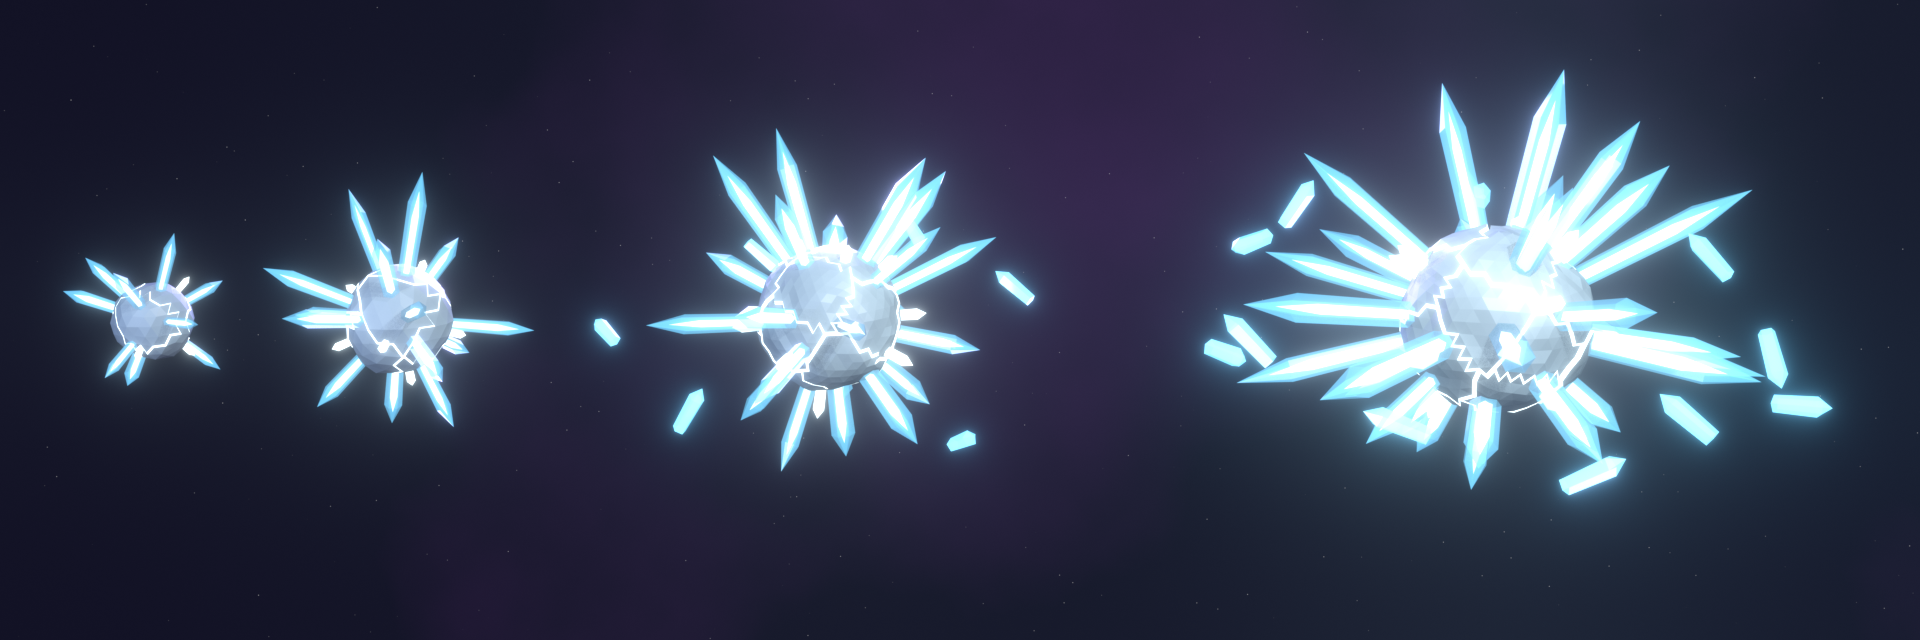
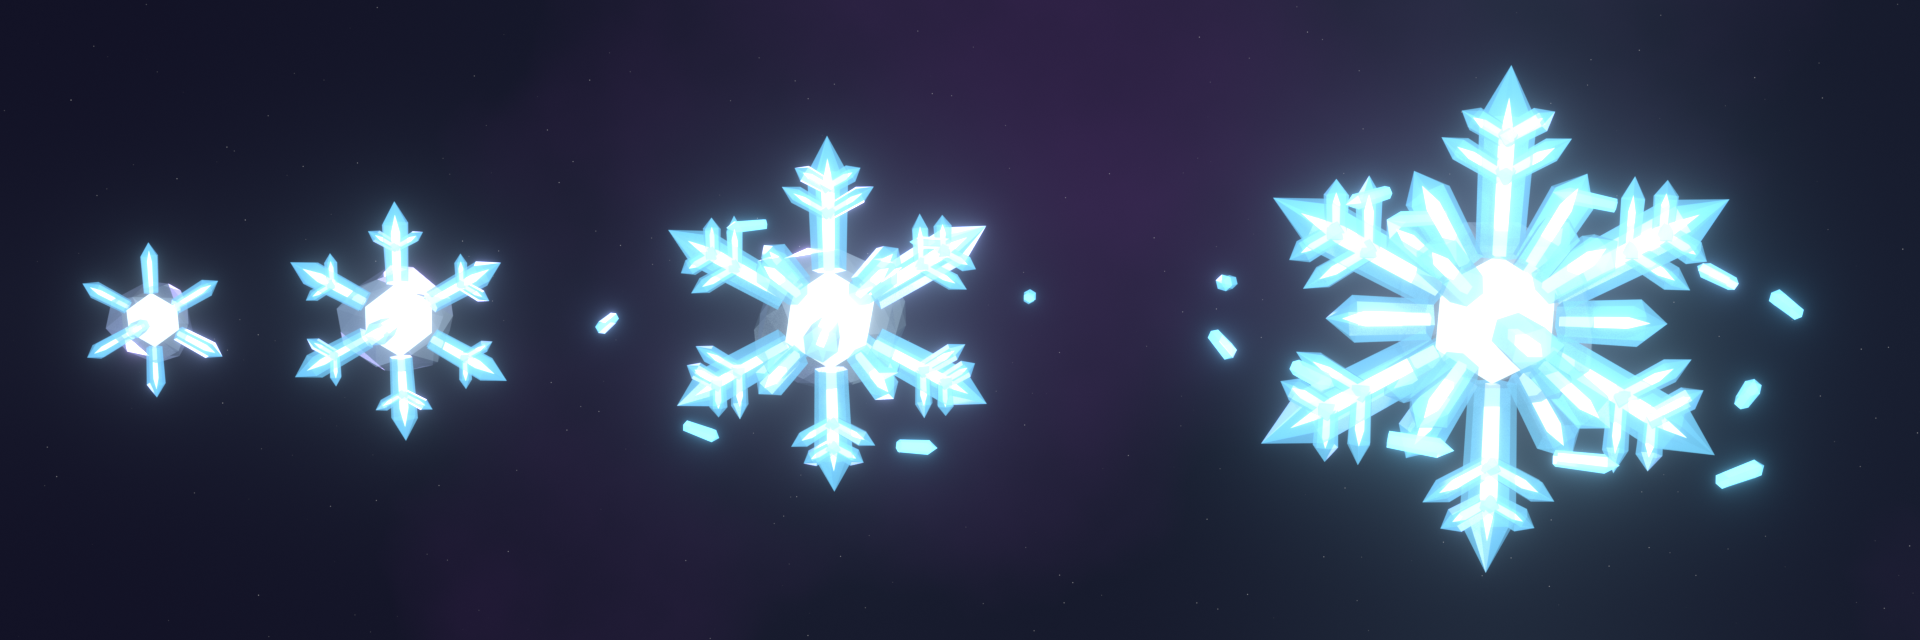
T04: Frost od nowa — płatek śniegu z kryształów wokół zamrożonej gwiazdy

Changed region(s): [[0.625, 0.0938, 0.9688, 0.9062], [0.3125, 0.2188, 0.5625, 0.75], [0.0312, 0.2812, 0.2812, 0.6875]]

diff --git a/art/stars/build_star.py b/art/stars/build_star.py
@@ -353,28 +353,69 @@ def build_lava(coll, cfg, rng, seed):
     return parts
 
 
-def build_frost(coll, cfg, rng, seed):
-    """Frost Star: „jeżowiec” z długich lodowych kolców. Kolce półprzezroczyste (Glass), w każdym świecący
-    kryształ-rdzeń; lodowa skorupa popękana, przez pęknięcia bije zimne światło."""
-    d = cfg["d"]
-    bm = ico(0.74, cfg["sub"])
-    for v in bm.verts:
+def spiky_star(bm, radius, spike, sub=1):
+    """Świecąca gwiazda 3D: ikosfera, której 12 pierwotnych wierzchołków wyciągnięto w kolce."""
+    tmp = ico(radius, sub)
+    for v in tmp.verts:
         n = v.co.normalized()
-        v.co = n * 0.74 * rocky(n, seed, 0.5)
-    voronoi_plates(bm, [6, 9, 13, 18][d], 0.95, (0.99, 1.04), rng)
-    shell = mesh_obj("Shell", bm, coll)
-    solidify(shell, 0.08, rim_mat=True)
+        # 12 wierzchołków ikosaedru ma 5 sąsiadów, reszta 6 — to one stają się czubkami.
+        v.co = n * (spike if len(v.link_edges) == 5 else radius)
+    bm_add(bm, tmp)
 
-    core = ico(0.66, 3)
-    bm_add(core, split_rim(shell))
+
+def gem(rng, n_pts, radius, jitter, stretch=1.0):
+    """Fasetowana bryła (otoczka wypukła losowych punktów na sferze) — duże płaskie ścianki jak klejnot."""
+    bm = bmesh.new()
+    for d in fib_dirs(n_pts, rng, jitter):
+        r = radius * rng.uniform(0.9, 1.05)
+        bm.verts.new(Vector((d.x * r, d.y * r, d.z * r * stretch)))
+    bmesh.ops.convex_hull(bm, input=bm.verts)
+    bmesh.ops.recalc_face_normals(bm, faces=bm.faces)
+    return bm
+
+
+def snowflake_dirs(d):
+    """Ramiona płatka śniegu: 6 w płaszczyźnie pionowej XZ (co 60°, front = -Y) + 2 krótsze przód/tył
+    (z boku wygląda jak 4-ramienny błysk), od Large 8 ukośnych. Zwraca (kierunek, skala długości, główne?)."""
+    out = [(Vector((math.sin(k * math.tau / 6), 0.0, math.cos(k * math.tau / 6))), 1.0, True) for k in range(6)]
+    out += [(Vector((0, -1, 0)), 0.6, False), (Vector((0, 1, 0)), 0.6, False)]
+    if d >= 3:  # Huge: 6 krótszych ramion między głównymi (płatek „gwiaździsty”)
+        out += [(Vector((math.sin((k + 0.5) * math.tau / 6), 0.0, math.cos((k + 0.5) * math.tau / 6))), 0.5, False)
+                for k in range(6)]
+    if d >= 2:
+        for sx in (-1, 1):
+            for sy in (-1, 1):
+                for sz in (-1, 1):
+                    out.append((Vector((sx, sy * 0.9, sz)).normalized(), 0.42, False))
+    return out
+
+
+def build_frost(coll, cfg, rng, seed):
+    """Frost Star: zamrożona gwiazda — w środku świeci kolczasta gwiazda, zamknięta w fasetowanym,
+    półprzezroczystym klejnocie lodu; z bryły rosną grube kryształy lodu w układzie płatka śniegu
+    (każdy ze świecącym rdzeniem). Rozmiar = więcej ścianek, kępy kryształów, ukośne promienie."""
+    d = cfg["d"]
+    shell = mesh_obj("Shell", gem(rng, [24, 32, 44, 56][d], 0.82, 0.18, stretch=0.95), coll)
+
+    core = bmesh.new()
+    spiky_star(core, 0.2, 0.52)
     acc = bmesh.new()
-    for n in fib_dirs([10, 15, 22, 32][d], rng, 0.25):
-        length = rng.uniform(0.95, 1.6) * (0.65 if n.z < -0.4 else 1.0)
-        rad = rng.uniform(0.09, 0.14)
-        crystal(acc, n * 0.66, n, length, rad, rng, sides=6)
-        crystal(core, n * 0.66, n, length * 0.82, rad * 0.42, rng, sides=4)  # świecący rdzeń kolca
-    for n in fib_dirs([4, 6, 10, 14][d], rng, 0.5):  # krótkie świecące kryształki między kolcami
-        crystal(core, n * 0.72, n, rng.uniform(0.2, 0.34), 0.06, rng, sides=5)
+    for n, k, main in snowflake_dirs(d):
+        n = (n + rand_dir(rng) * 0.03).normalized()
+        length = (0.85 + 0.2 * d) * k * rng.uniform(0.95, 1.05)
+        rad = (0.17 + 0.02 * d) * (0.7 + 0.3 * k)
+        crystal(acc, n * 0.62, n, length, rad, rng, sides=6, sink=0.1)
+        crystal(core, n * 0.62, n, length * 0.82, rad * 0.32, rng, sides=4, sink=0.1)  # świecący rdzeń
+        if main and d >= 1:
+            # Odgałęzienia płatka: pod 60° w płaszczyźnie płatka, 1 para (Medium) / 2 pary (Large+).
+            side = n.cross(Vector((0, 1, 0))).normalized()
+            for j, t in enumerate([0.55, 0.85][: 1 if d == 1 else 2]):
+                base = n * (0.62 + length * 0.7 * t)
+                for sgn in (-1, 1):
+                    dirb = (n * 0.5 + side * sgn * 0.866).normalized()
+                    bl = length * (0.42 - 0.12 * j)
+                    crystal(acc, base, dirb, bl, rad * 0.45, rng, sides=6, sink=0.05)
+                    crystal(core, base, dirb, bl * 0.75, rad * 0.16, rng, sides=4, sink=0.05)
     return {"Shell": shell, "Core": mesh_obj("Core", core, coll), "Accent": mesh_obj("Accent", acc, coll)}
 
 
@@ -444,7 +485,13 @@ BUILDERS = {"Iron": build_iron, "Lava": build_lava, "Frost": build_frost, "Geode
 
 
 def orbit_maker(type_id, rng, seed):
-    if type_id in ("Frost", "Geode"):
+    if type_id == "Frost":
+        def shard(bm, c, k):
+            tan = Vector((-c.y, c.x, 0)).normalized()
+            crystal(bm, c - tan * 0.15, (tan + rand_dir(rng) * 0.2).normalized(), rng.uniform(0.3, 0.45), 0.07, rng, sides=6,
+                    sink=0.1)
+        return shard
+    if type_id == "Geode":
         return lambda bm, c, k: crystal(bm, c, rand_dir(rng), rng.uniform(0.25, 0.45), 0.08, rng, sides=5, sink=0.1)
     if type_id == "Iron":
         return lambda bm, c, k: cube_at(bm, c, rng.uniform(0.07, 0.12), rng)
@@ -505,9 +552,9 @@ def theme_materials(type_id):
         orbit = material("Lava_Orbit", shell, rough=0.9)
         sh = material("Lava_Shell", shell, rough=0.85)
     elif type_id == "Frost":
-        accent = material("Frost_Accent", color, alpha=0.45, rough=0.05, emission=0.6)
-        orbit = material("Frost_Orbit", color, alpha=0.55, rough=0.05, emission=1.5)
-        sh = material("Frost_Shell", shell, rough=0.4)
+        accent = material("Frost_Accent", color, alpha=0.5, rough=0.05, emission=0.5)
+        orbit = material("Frost_Orbit", color, alpha=0.6, rough=0.05, emission=1.2)
+        sh = material("Frost_Shell", shell, alpha=0.6, rough=0.03)
     else:
         accent = material(f"{type_id}_Accent", color, emission=1.5, neon=True)
         orbit = material(f"{type_id}_Orbit", color, emission=1.3, neon=True)

diff --git a/vault/09 Decyzje/2026-11-08 Pipeline modeli gwiazd.md b/vault/09 Decyzje/2026-11-08 Pipeline modeli gwiazd.md
@@ -7,7 +7,7 @@ tags: [decyzja]
 
 **Decyzja (T04):**
 - Gwiazda = do 4 MeshPartów wg roli: `Shell` (bryła, kolor `shell`), `Core` (Neon, `glow`), `Accent` (detal rodzaju, `color`), `Orbit` (odłamki, tylko Large/Huge). Gra koloruje części z `Themes.json` — jedna geometria na rodzaj×rozmiar.
-- Sylwetki rodzajów 1–4: Iron = spłaszczony „ziemniak” z wgnieceniami i guzami; Lava = kula płyt bazaltu na magmie z kroplami; Frost = „jeżowiec” z długich kolców lodu; Geode = jajo z otworem i grotą ametystów.
+- Sylwetki rodzajów 1–4: Iron = spłaszczony „ziemniak” z wgnieceniami i guzami; Lava = kula płyt bazaltu na magmie z kroplami; Frost = płatek śniegu z grubych kryształów lodu wokół zamrożonej świecącej gwiazdy w lodowym klejnocie (z boku: 4-ramienny błysk; wersja „jeżowiec” odrzucona 8.11); Geode = jajo z otworem i grotą ametystów.
 - Rozmiar zmienia gęstość: siatka (ikosfera 320 → 1280 ścian), liczba płyt/kryształów, odłamki na orbicie od Large. Budżet: Small ≤ 2k, Huge ≤ 8k tris (wyszło 0,6–1,4k i 2,6–6,3k).
 - Strefy rozbijania liczone w Blenderze (raycast na Shell+Core, górna półkula) → `art/stars/zones.json`; Attachmenty `Zone_N` na Shell tworzy wygenerowany `art/stars/import_stars.luau`.
 - Import bez klikania: upload FBX przez Open Cloud (`open_cloud_invoke`) → `insert_asset` → `import_stars.luau`. Wymaga zatwierdzenia folderu `E:\CrackAStars\art` w Studio (Assistant Settings → MCP Permissions).

diff --git a/vault/08 Taski/T04 Generator gwiazd i rodzaje 1-4.md b/vault/08 Taski/T04 Generator gwiazd i rodzaje 1-4.md
@@ -71,6 +71,17 @@ Generator gwiazd i rodzaje 1-4.
   - Wszystkie w budżecie.
 - Logika importu (części, materiały, skala, światło, cząsteczki) sprawdzona w Studio na atrapach i posprzątana. Upload FBX nadal blokowany przez MCP Permissions.
 
+**Frost od nowa (8.11, prośba użytkownika — kolce wyglądały dziwnie):**
+- Nowy pomysł to „zamrożona gwiazda”:
+  - świecąca kolczasta gwiazda (`spiky_star`) w środku fasetowanego, półprzezroczystego klejnotu lodu (`gem`, Glass 0.45);
+  - grube kryształy lodu w układzie płatka śniegu: 6 ramion w płaszczyźnie pionowej plus krótsze przód i tył, każdy z neonowym rdzeniem.
+- Rozmiary:
+  - Medium i większe mają odgałęzienia na ramionach: 1 para, a od Large 2 pary.
+  - Od Large dochodzi 8 ukośnych promieni i aureola odłamków ułożonych wzdłuż orbity.
+  - Huge ma dodatkowo 6 krótszych ramion między głównymi.
+- Z przodu widać płatek śniegu, z boku czteroramienny błysk gwiazdy (`star_frost_angles.png`).
+- Tris: 352 / 800 / 1670 / ~2.2k.
+
 **Użyte skille:** `task`, `anthropic-skills:computer-use` (dostęp odrzucony), Studio MCP (`execute_luau`, `open_cloud_invoke`), Blender CLI.
 
 **Problemy:**

diff --git a/vault/04 Łup/Frost Star/Blizzard Heart.md b/vault/04 Łup/Frost Star/Blizzard Heart.md
@@ -17,7 +17,7 @@ tags: ["lup/frost", "rarity/mythic"]
 | --- | --- |
 | Dochód w bazie | **$2 800/s** (Shiny ×2, Golden ×5) |
 | Kształt | heart relic with orbiting fragments |
-| Styl rodzaju | dense cluster of long ice spikes, snowy crust, cold mist |
+| Styl rodzaju | snowflake of thick glowing ice crystals around a frozen star inside an ice gem, cold mist |
 | Kolor / poświata | `#7FD8FF` / `#E6FBFF` |
 | Model | `art/items/frost/frost_heart.blend` |
 

diff --git a/vault/04 Łup/Frost Star/Aurora Prism.md b/vault/04 Łup/Frost Star/Aurora Prism.md
@@ -17,7 +17,7 @@ tags: ["lup/frost", "rarity/legendary"]
 | --- | --- |
 | Dochód w bazie | **$420/s** (Shiny ×2, Golden ×5) |
 | Kształt | floating orb with rings |
-| Styl rodzaju | dense cluster of long ice spikes, snowy crust, cold mist |
+| Styl rodzaju | snowflake of thick glowing ice crystals around a frozen star inside an ice gem, cold mist |
 | Kolor / poświata | `#7FD8FF` / `#E6FBFF` |
 | Model | `art/items/frost/frost_orb.blend` |
 

diff --git a/vault/04 Łup/Frost Star/Frozen Core.md b/vault/04 Łup/Frost Star/Frozen Core.md
@@ -17,7 +17,7 @@ tags: ["lup/frost", "rarity/epic"]
 | --- | --- |
 | Dochód w bazie | **$84/s** (Shiny ×2, Golden ×5) |
 | Kształt | glowing core in cage |
-| Styl rodzaju | dense cluster of long ice spikes, snowy crust, cold mist |
+| Styl rodzaju | snowflake of thick glowing ice crystals around a frozen star inside an ice gem, cold mist |
 | Kolor / poświata | `#7FD8FF` / `#E6FBFF` |
 | Model | `art/items/frost/frost_core.blend` |
 

diff --git a/vault/04 Łup/Frost Star/Glacier Crystal.md b/vault/04 Łup/Frost Star/Glacier Crystal.md
@@ -17,7 +17,7 @@ tags: ["lup/frost", "rarity/rare"]
 | --- | --- |
 | Dochód w bazie | **$21/s** (Shiny ×2, Golden ×5) |
 | Kształt | crystal cluster |
-| Styl rodzaju | dense cluster of long ice spikes, snowy crust, cold mist |
+| Styl rodzaju | snowflake of thick glowing ice crystals around a frozen star inside an ice gem, cold mist |
 | Kolor / poświata | `#7FD8FF` / `#E6FBFF` |
 | Model | `art/items/frost/frost_crystal.blend` |
 

diff --git a/vault/04 Łup/Frost Star/Frost Pebble.md b/vault/04 Łup/Frost Star/Frost Pebble.md
@@ -17,7 +17,7 @@ tags: ["lup/frost", "rarity/common"]
 | --- | --- |
 | Dochód w bazie | **$1/s** (Shiny ×2, Golden ×5) |
 | Kształt | pebble |
-| Styl rodzaju | dense cluster of long ice spikes, snowy crust, cold mist |
+| Styl rodzaju | snowflake of thick glowing ice crystals around a frozen star inside an ice gem, cold mist |
 | Kolor / poświata | `#7FD8FF` / `#E6FBFF` |
 | Model | `art/items/frost/frost_pebble.blend` |
 

diff --git a/vault/04 Łup/Frost Star/Icicle Shard.md b/vault/04 Łup/Frost Star/Icicle Shard.md
@@ -17,7 +17,7 @@ tags: ["lup/frost", "rarity/uncommon"]
 | --- | --- |
 | Dochód w bazie | **$6/s** (Shiny ×2, Golden ×5) |
 | Kształt | shard |
-| Styl rodzaju | dense cluster of long ice spikes, snowy crust, cold mist |
+| Styl rodzaju | snowflake of thick glowing ice crystals around a frozen star inside an ice gem, cold mist |
 | Kolor / poświata | `#7FD8FF` / `#E6FBFF` |
 | Model | `art/items/frost/frost_shard.blend` |
 

diff --git a/vault/03 Gwiazdy/Rodzaje/Frost Star.md b/vault/03 Gwiazdy/Rodzaje/Frost Star.md
@@ -12,7 +12,7 @@ tags: ["gwiazda", "rodzaj"]
 
 ![[star_frost.png|320]]
 
-**Sylwetka:** dense cluster of long ice spikes, snowy crust, cold mist
+**Sylwetka:** snowflake of thick glowing ice crystals around a frozen star inside an ice gem, cold mist
 
 Mnożnik dochodu łupu **×1.4** · strefa `FrostCrater` · kolor `#7FD8FF` · poświata `#E6FBFF` · skorupa `#B9D4E6`
 
